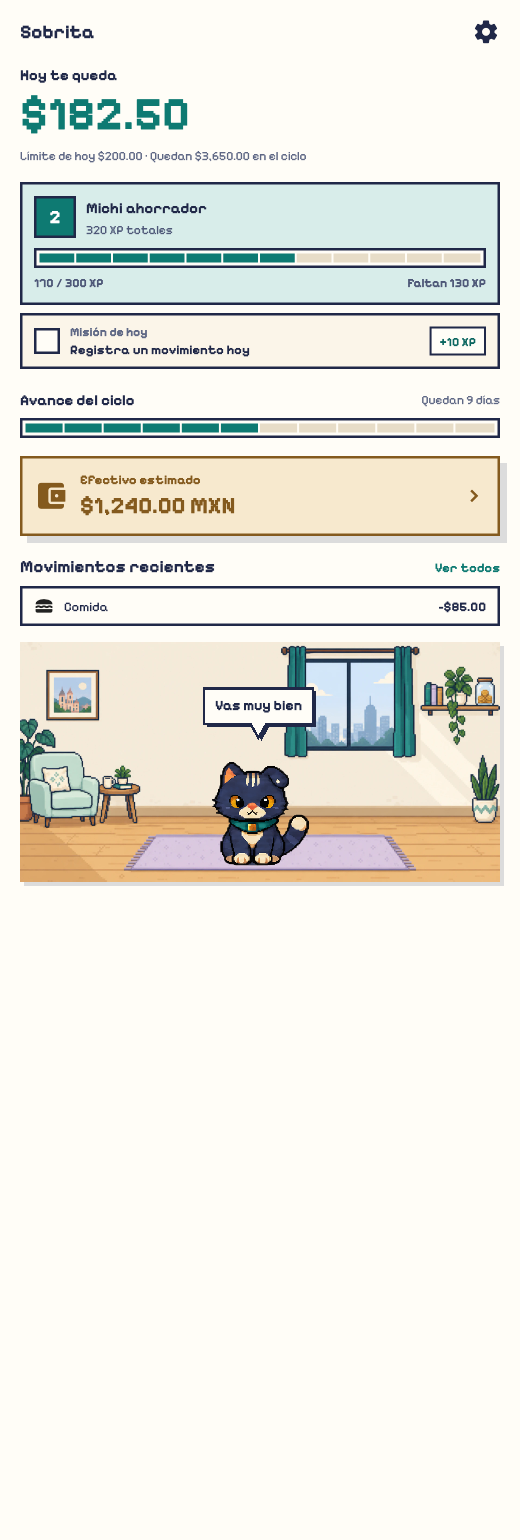
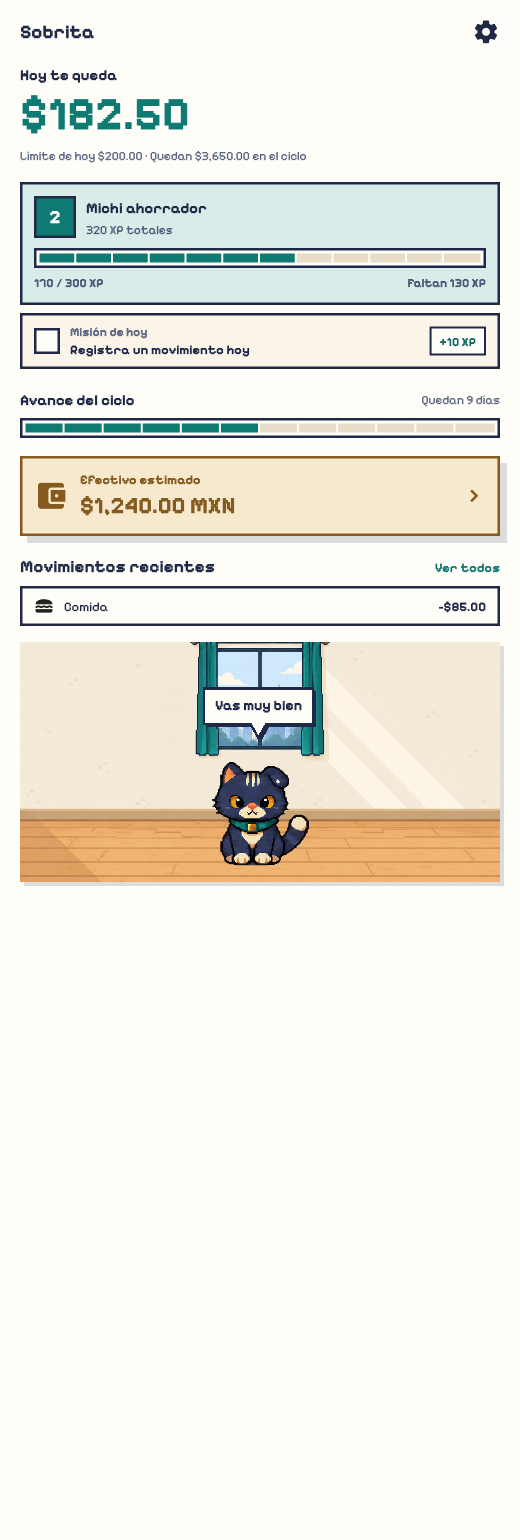
Replace Casa clara room art with empty backgrounds

Changed region(s): [[0.0308, 0.4052, 0.9846, 0.5922]]

diff --git a/lib/widgets/room_scene.dart b/lib/widgets/room_scene.dart
@@ -291,43 +291,62 @@ class _RoomSceneLayout {
   /// See [_coverRect]; null centres the background.
   final double? floorFocus;
 
-  // Floor and tabletop rects end where the thing stands: the item is drawn
-  // on the rect's bottom edge, so moving a rect's bottom moves the floor line.
-  static const _casaClaraPreview = _RoomSceneLayout(
-    slotRects: {
-      RoomSlot.rug: Rect.fromLTWH(.20, .73, .62, .24),
-      RoomSlot.wallLeft: Rect.fromLTWH(.19, .13, .11, .24),
-      RoomSlot.wallCenter: Rect.fromLTWH(.32, .11, .13, .28),
-      RoomSlot.tabletop: Rect.fromLTWH(.18, .462, .08, .20),
-      RoomSlot.floorLeft: Rect.fromLTWH(.03, .60, .12, .36),
-      RoomSlot.floorRight: Rect.fromLTWH(.69, .49, .15, .42),
-      RoomSlot.floorCenter: Rect.fromLTWH(.22, .67, .25, .20),
-      RoomSlot.floorAccent: Rect.fromLTWH(.60, .67, .09, .15),
-      RoomSlot.floorCabinet: Rect.fromLTWH(.23, .60, .16, .28),
-    },
-    speechRect: Rect.fromLTWH(.31, .17, .38, .26),
-    catTop: .47,
-    catWidth: .22,
-    floorLine: .72,
-  );
-
   // The 3:2 preview art is cropped into a 2:1 Home card. Its window and
   // baseboard are closer together than in the portrait art. Place items by
   // those landmarks so they retain their height on the wall and their depth
   // on the floor when the user opens the same room. The aligned preview art
   // also puts the window at the portrait's horizontal position.
+  static const _emptyThemePreviewSlots = <RoomSlot, Rect>{
+    RoomSlot.rug: Rect.fromLTWH(.20, .73, .62, .24),
+    RoomSlot.wallLeft: Rect.fromLTWH(.17, .275, .10, .08),
+    RoomSlot.wallCenter: Rect.fromLTWH(.78, .275, .10, .08),
+    RoomSlot.floorLeft: Rect.fromLTWH(.11, .55, .16, .17),
+    RoomSlot.floorRight: Rect.fromLTWH(.74, .55, .14, .17),
+    // The Home card has much less visible floor than the portrait scene.
+    // Keep the pet bed behind the character's feet in this crop.
+    RoomSlot.floorCenter: Rect.fromLTWH(.255, .57, .25, .20),
+    RoomSlot.floorAccent: Rect.fromLTWH(.64, .65, .08, .136),
+    RoomSlot.floorCabinet: Rect.fromLTWH(.17, .505, .18, .22),
+  };
+
   static const _emptyThemePreview = _RoomSceneLayout(
+    slotRects: _emptyThemePreviewSlots,
+    speechRect: Rect.fromLTWH(.21, .27, .38, .26),
+    catTop: .47,
+    catWidth: .22,
+    floorLine: .675,
+    itemScale: .82,
+  );
+
+  // An empty room has nothing painted in to step around, so furniture stands
+  // back against the wall. Wall slots hang clear of a floor lamp's shade.
+  static const _emptyThemeImmersiveSlots = <RoomSlot, Rect>{
+    RoomSlot.rug: Rect.fromLTWH(.05, .67, .90, .14),
+    RoomSlot.wallLeft: Rect.fromLTWH(.15, .185, .14, .066),
+    RoomSlot.wallCenter: Rect.fromLTWH(.76, .185, .14, .066),
+    RoomSlot.floorLeft: Rect.fromLTWH(.07, .40, .24, .147),
+    RoomSlot.floorRight: Rect.fromLTWH(.72, .40, .18, .147),
+    RoomSlot.floorCenter: Rect.fromLTWH(.20, .50, .28, .18),
+    RoomSlot.floorAccent: Rect.fromLTWH(.63, .45, .08, .15),
+    RoomSlot.floorCabinet: Rect.fromLTWH(.14, .40, .24, .15),
+  };
+
+  static const _emptyThemeImmersive = _RoomSceneLayout(
+    slotRects: _emptyThemeImmersiveSlots,
+    speechRect: Rect.fromLTWH(.25, .48, .50, .14),
+    catTop: .56,
+    catWidth: .30,
+    floorLine: _stageFloorLine,
+    floorFocus: _immersiveFloorFocus,
+  );
+
+  // Casa clara now uses the same empty-room anchors. Its legacy tabletop
+  // decoration remains placeable on the architectural window sill, so a saved
+  // desk lamp or plant never floats where the painted side table used to be.
+  static const _casaClaraPreview = _RoomSceneLayout(
     slotRects: {
-      RoomSlot.rug: Rect.fromLTWH(.20, .73, .62, .24),
-      RoomSlot.wallLeft: Rect.fromLTWH(.17, .275, .10, .08),
-      RoomSlot.wallCenter: Rect.fromLTWH(.78, .275, .10, .08),
-      RoomSlot.floorLeft: Rect.fromLTWH(.11, .55, .16, .17),
-      RoomSlot.floorRight: Rect.fromLTWH(.74, .55, .14, .17),
-      // The Home card has much less visible floor than the portrait scene.
-      // Keep the pet bed behind the character's feet in this crop.
-      RoomSlot.floorCenter: Rect.fromLTWH(.255, .57, .25, .20),
-      RoomSlot.floorAccent: Rect.fromLTWH(.64, .65, .08, .136),
-      RoomSlot.floorCabinet: Rect.fromLTWH(.17, .505, .18, .22),
+      ..._emptyThemePreviewSlots,
+      RoomSlot.tabletop: Rect.fromLTWH(.55, .42, .08, .04),
     },
     speechRect: Rect.fromLTWH(.21, .27, .38, .26),
     catTop: .47,
@@ -336,45 +355,10 @@ class _RoomSceneLayout {
     itemScale: .82,
   );
 
-  // The home card is the preview image's own 2:1 shape, so nothing is
-  // cropped and these read the same on the card as on the image. The
-  // portrait image is always cropped; its rects were measured on a phone
-  // whose room area is 1000x775.
   static const _casaClaraImmersive = _RoomSceneLayout(
     slotRects: {
-      RoomSlot.rug: Rect.fromLTWH(.05, .67, .90, .14),
-      RoomSlot.wallLeft: Rect.fromLTWH(.146, .273, .146, .083),
-      RoomSlot.wallCenter: Rect.fromLTWH(.74, .345, .15, .083),
-      RoomSlot.tabletop: Rect.fromLTWH(.27, .433, .12, .067),
-      RoomSlot.floorLeft: Rect.fromLTWH(.05, .536, .18, .119),
-      RoomSlot.floorRight: Rect.fromLTWH(.69, .521, .20, .129),
-      RoomSlot.floorCenter: Rect.fromLTWH(.20, .515, .28, .17),
-      RoomSlot.floorAccent: Rect.fromLTWH(.60, .525, .09, .11),
-      RoomSlot.floorCabinet: Rect.fromLTWH(.18, .50, .24, .16),
-    },
-    speechRect: Rect.fromLTWH(.25, .48, .50, .14),
-    catTop: .56,
-    catWidth: .30,
-    floorLine: _stageFloorLine,
-    floorFocus: _immersiveFloorFocus,
-  );
-
-  // An empty room has nothing painted in to step around, so furniture stands
-  // back against the wall, where the stage is about 300 px to the metre and
-  // an item drawn at its real size also looks it. On Casa clara's rects it
-  // stood mid-floor, nearer the viewer yet smaller than the painted armchair
-  // behind it. Wall slots hang at about 1.5 m, above a 1.45 m floor lamp, so
-  // nothing on the wall sits on what stands under it.
-  static const _emptyThemeImmersive = _RoomSceneLayout(
-    slotRects: {
-      RoomSlot.rug: Rect.fromLTWH(.05, .67, .90, .14),
-      RoomSlot.wallLeft: Rect.fromLTWH(.15, .185, .14, .066),
-      RoomSlot.wallCenter: Rect.fromLTWH(.76, .185, .14, .066),
-      RoomSlot.floorLeft: Rect.fromLTWH(.07, .40, .24, .147),
-      RoomSlot.floorRight: Rect.fromLTWH(.72, .40, .18, .147),
-      RoomSlot.floorCenter: Rect.fromLTWH(.20, .50, .28, .18),
-      RoomSlot.floorAccent: Rect.fromLTWH(.63, .45, .08, .15),
-      RoomSlot.floorCabinet: Rect.fromLTWH(.14, .40, .24, .15),
+      ..._emptyThemeImmersiveSlots,
+      RoomSlot.tabletop: Rect.fromLTWH(.57, .29, .08, .04),
     },
     speechRect: Rect.fromLTWH(.25, .48, .50, .14),
     catTop: .56,

diff --git a/lib/widgets/character_room.dart b/lib/widgets/character_room.dart
@@ -2,6 +2,7 @@ import 'dart:math' as math;
 
 import 'package:flutter/material.dart';
 
+import '../models/room_design.dart';
 import '../theme/app_theme.dart';
 import 'pixel_ui.dart';
 
@@ -18,8 +19,7 @@ class CharacterRoom extends StatelessWidget {
     this.backgroundAsset = casaClaraBackgroundAsset,
   });
 
-  static const casaClaraBackgroundAsset =
-      'assets/rooms/casa_clara/background.webp';
+  static const casaClaraBackgroundAsset = RoomThemes.casaClaraPreviewAsset;
   static const backgroundKey = ValueKey('character-room-background');
 
   /// Widest the room is ever laid out: the shell caps its content at 520 and
@@ -30,12 +30,12 @@ class CharacterRoom extends StatelessWidget {
   static const double maxLogicalWidth = 480;
 
   /// The background's own pixel width. Decoding past it would only upscale.
-  static const int backgroundNativeWidth = 1774;
+  static const int backgroundNativeWidth = 1536;
 
   /// The background sized for this screen.
   ///
   /// The art is far larger than the card ever is, so decoding it whole costs
-  /// 6.3 MB for something that paints into at most 1440 px. Warm it through
+  /// about 6.3 MB for something that paints into at most 1440 px. Warm it through
   /// this method too: [ResizeImage] keys on the target width, so precaching
   /// the bare [AssetImage] would fill the cache with an entry nothing reads.
   static ImageProvider backgroundProvider(
@@ -68,8 +68,7 @@ class CharacterRoom extends StatelessWidget {
             builder: (context, constraints) {
               final compact = constraints.maxWidth < 380;
               final characterWidth = compact ? 84.0 : 112.0;
-              // The character stands on the rug, which is the one clear patch
-              // of floor the room art gives it, and the speech sits directly
+              // The character stands on the clear floor, and the speech sits directly
               // above rather than beside: stacked, a long message grows upward
               // into empty wall instead of squeezing against the card's edge.
               final bubbleWidth =

diff --git a/lib/models/room_design.dart b/lib/models/room_design.dart
@@ -95,9 +95,9 @@ abstract final class RoomThemes {
   static const casaJardinId = 'casa-jardin';
   static const casaDePlayaId = 'casa-de-playa';
   static const casaClaraPreviewAsset =
-      'assets/rooms/casa_clara/hybrid_background.png';
+      'assets/rooms/casa_clara/background_preview_empty.png';
   static const casaClaraPortraitAsset =
-      'assets/rooms/casa_clara/hybrid_background_portrait.png';
+      'assets/rooms/casa_clara/background_portrait_empty.png';
   static const emptyRoomSlots = <RoomSlot>[
     RoomSlot.rug,
     RoomSlot.wallLeft,
@@ -112,7 +112,7 @@ abstract final class RoomThemes {
   static const casaClara = RoomTheme(
     id: casaClaraId,
     previewAsset: casaClaraPreviewAsset,
-    previewSize: Size(1774, 887),
+    previewSize: Size(1536, 1024),
     portraitAsset: casaClaraPortraitAsset,
     portraitSize: Size(1024, 1536),
     slots: RoomSlot.values,
@@ -247,6 +247,14 @@ abstract final class RoomDecorAssets {
   /// clara also offers its existing table. A pet bed is reserved for the
   /// centre behind the character, rather than replacing a tall lamp.
   static List<RoomSlot>? suggestedSlotsFor(String id) => switch (id) {
+    rattanChairId ||
+    floorLampId => const [RoomSlot.floorLeft, RoomSlot.floorRight],
+    defaultTablePlantId || 'item-03' => const [
+      RoomSlot.tabletop,
+      RoomSlot.floorLeft,
+      RoomSlot.floorRight,
+      RoomSlot.floorAccent,
+    ],
     lowCabinetId => const [RoomSlot.floorCabinet],
     petBedId => const [RoomSlot.floorCenter],
     savingsJarId => const [RoomSlot.tabletop, RoomSlot.floorAccent],

diff --git a/test/character_room_image_test.dart b/test/character_room_image_test.dart
@@ -14,7 +14,7 @@ import 'support/localizations.dart';
 
 /// Decoding the room whole costs this much, and it is what the widget must
 /// never spend: the card paints into 1,440 px at the very widest.
-const int fullDecodeBytes = 1774 * 887 * 4;
+const int fullDecodeBytes = 1536 * 1024 * 4;
 
 Widget _roomHarness({String? asset}) => MaterialApp(
   theme: buildSobraTheme(),
@@ -55,10 +55,10 @@ void main() {
       await tester.pump();
 
       // 360dp screen at 3x, so min(360, 480) * 3 = 1080 px wide, and the art
-      // is exactly 2:1, so 540 tall.
+      // is 3:2, so the 1080 px decode is 720 px tall.
       expect(
         PaintingBinding.instance.imageCache.currentSizeBytes,
-        1080 * 540 * 4,
+        1080 * 720 * 4,
       );
       expect(
         PaintingBinding.instance.imageCache.currentSizeBytes,
@@ -84,7 +84,7 @@ void main() {
 
       expect(
         PaintingBinding.instance.imageCache.currentSizeBytes,
-        1080 * 540 * 4,
+        1080 * 720 * 4,
       );
     });
   });
